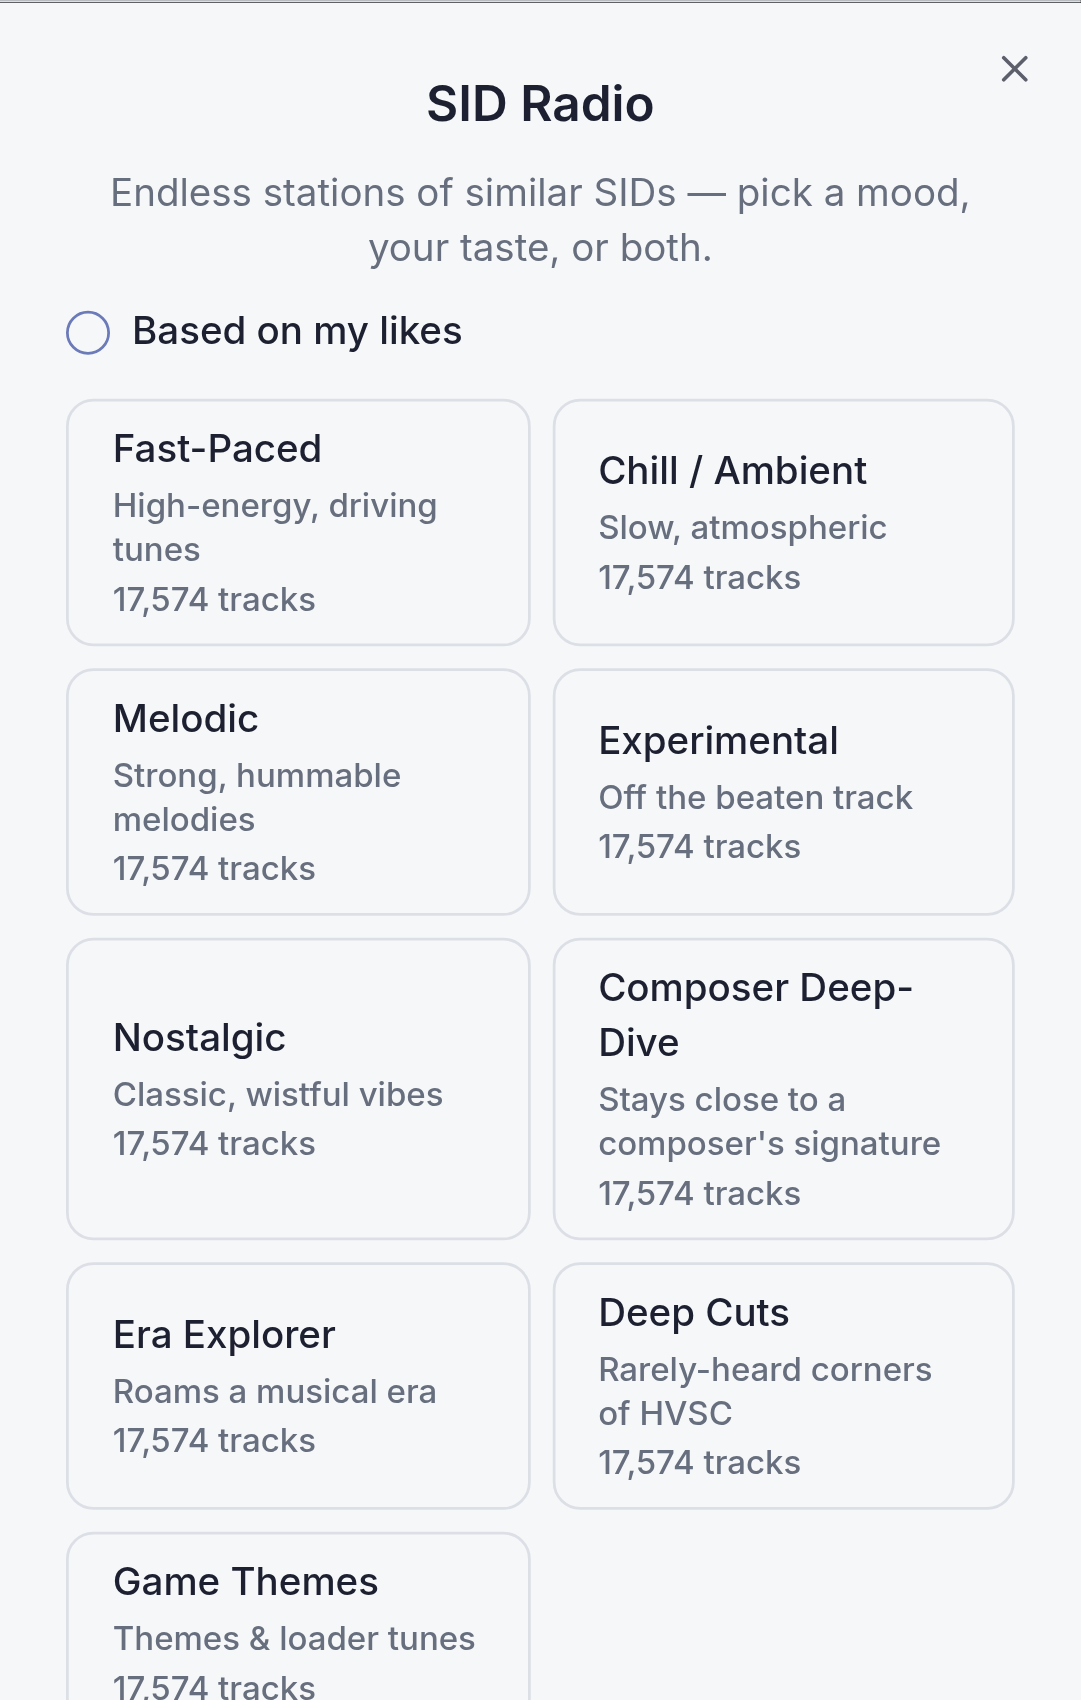
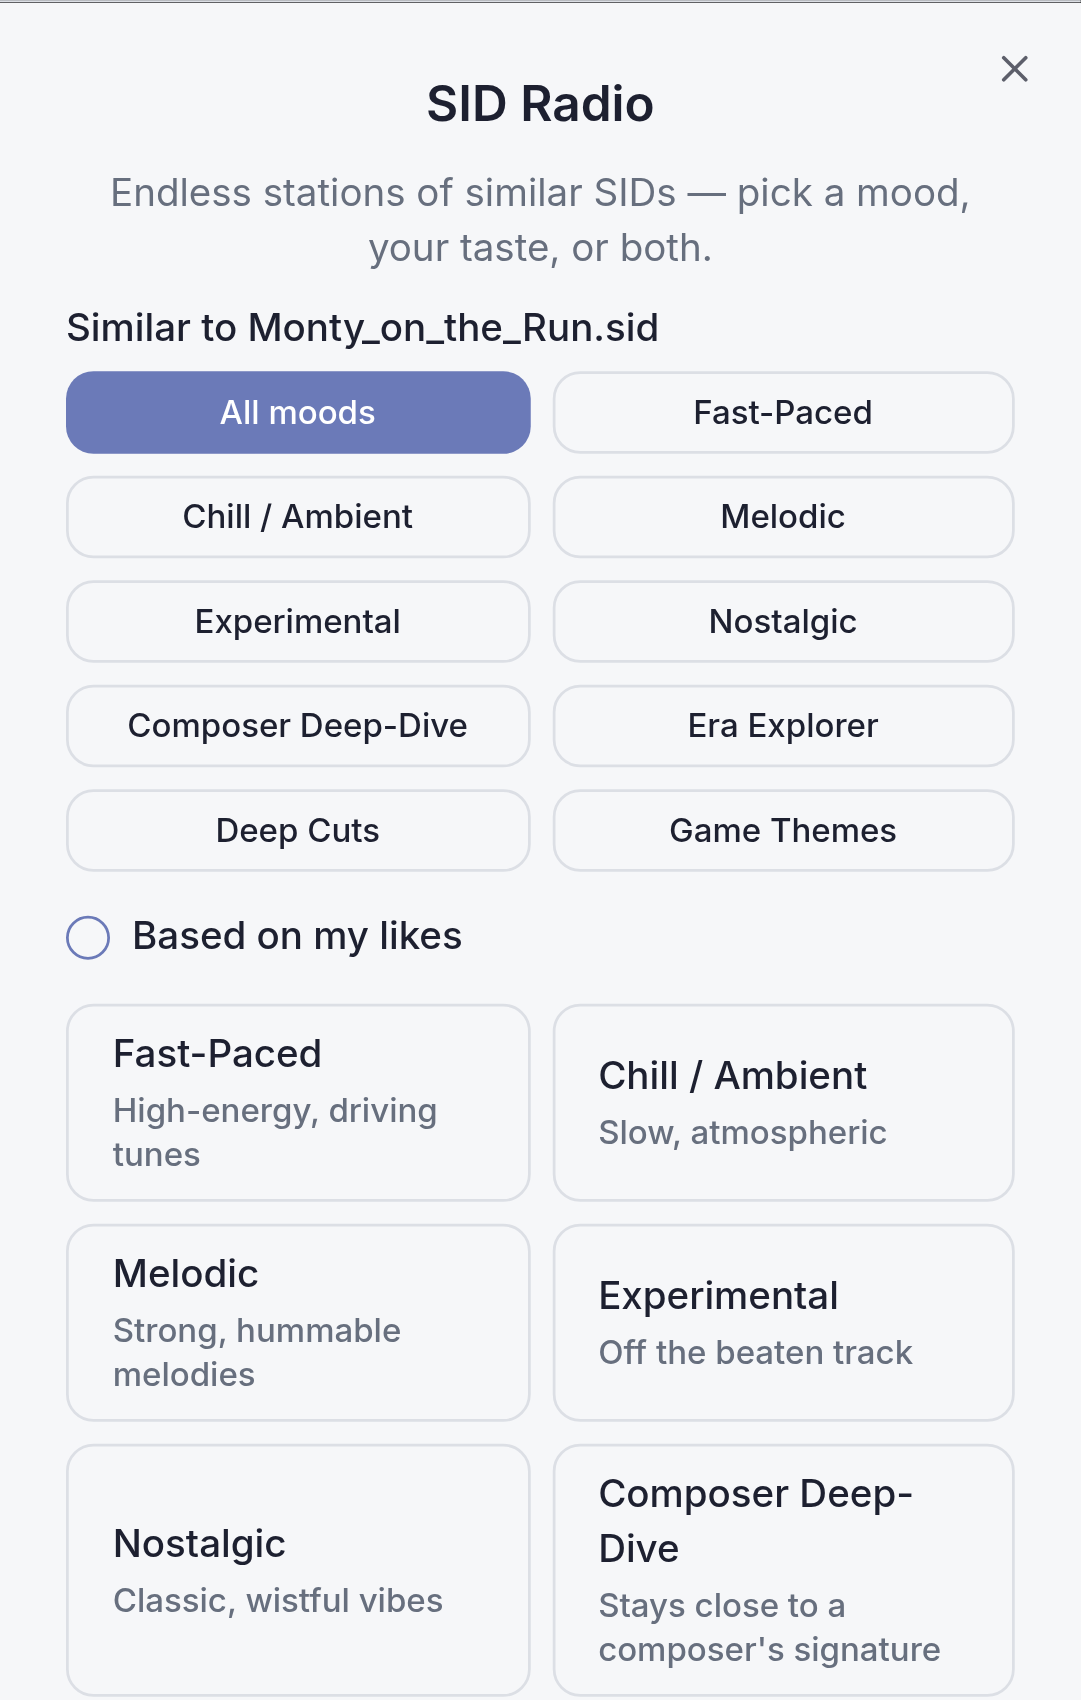
feat(sid-radio): drop the per-mood track count, and gate it at build time
Every mood tile printed how many tracks its station could draw on. The figures
sat within a few per cent of each other — 17,574 apiece in the shipped corpus —
so the number told a listener nothing about which mood to pick, and cost a third
line on all nine tiles. It is gone. The disabled "None in this release" state
stays, because a greyed tile with no explanation is worse than one with a reason.

Removing the figure removes the only place a release that had quietly lost most
of a mood would have been visible, so the check moves to where it can stop a
build instead of reaching a listener. `scripts/fetch-sidcorr.mjs` now counts the
styles in the bundle it has just verified and fails when any holds fewer than
10,000 tracks. That script runs in `prebuild`, which is the one point where the
corpus is guaranteed present, so the gate cannot be skipped.

The build script cannot import the app's TypeScript parser, so it carries its own
reader of the same header — and a duplicate is only safe while something proves
the two agree. `stylePopulationGate.test.ts` builds a fixture with known
populations and asserts the build reader and `stylePopulationsFromBundle` return
the same map, and that the map holds the numbers the fixture was built with, so a
reader that returned zeroes could not pass by agreeing with itself. Writing that
test earned its keep immediately: the first version of the reader had the wrong
offsets (styleCount is at 20, not 24; the style table at 32, not 48).
[…]

diff --git a/tests/unit/sidRadio/stylePopulationGate.test.ts b/tests/unit/sidRadio/stylePopulationGate.test.ts
@@ -1,0 +1,72 @@
+/*
+ * C64 Commander - Configure and control your Commodore 64 Ultimate over your local network
+ * Copyright (C) 2026 Christian Gleissner
+ *
+ * Licensed under the GNU General Public License v3.0 or later.
+ * See <https://www.gnu.org/licenses/> for details.
+ */
+
+import { describe, expect, it } from "vitest";
+
+import { MIN_STYLE_POPULATION, assertStylePopulations, readStylePopulations } from "../../../scripts/fetch-sidcorr.mjs";
+import { parseSidcorrTiny } from "@/lib/sidRadio/sidcorrTiny";
+import { stylePopulationsFromBundle } from "@/lib/sidRadio/sidRadioWorkerCore";
+import { buildTinyFixture } from "../../fixtures/sidcorr/buildTinyFixture";
+
+/**
+ * The launcher no longer prints a per-mood track count, so a release that quietly
+ * lost most of a mood would not be visible on screen any more. The build counts
+ * them instead, and these tests hold that counter to the app's own parser.
+ */
+describe("SID Radio style population gate", () => {
+  const fixture = () =>
+    Buffer.from(
+      buildTinyFixture({
+        files: [
+          { md5_48: "aaaaaaaaaaaa", tracks: [{ styleMask: 0b011 }, { styleMask: 0b001 }] },
+          { md5_48: "bbbbbbbbbbbb", tracks: [{ styleMask: 0b010, neighbors: [0] }] },
+          { md5_48: "cccccccccccc", tracks: [{ styleMask: 0b000, neighbors: [1, 0] }] },
+        ],
+      }),
+    );
+
+  it("counts each style exactly as the app's own parser does", () => {
+    // The build script cannot import the app's TypeScript parser, so it carries
+    // its own reader of the same header. That is a duplicate, and a duplicate is
+    // only safe while something proves the two agree.
+    const buffer = fixture();
+    const fromBuildScript = readStylePopulations(buffer);
+    const fromApp = stylePopulationsFromBundle(
+      parseSidcorrTiny(buffer.buffer.slice(buffer.byteOffset, buffer.byteOffset + buffer.byteLength)),
+    );
+
+    expect(fromBuildScript).toEqual(fromApp);
+    // And the numbers are the ones the fixture was built with, so a reader that
+    // returned zeroes for everything could not pass by agreeing with itself.
+    expect(fromBuildScript.fast_paced).toBe(2);
+    expect(fromBuildScript.slow_ambient).toBe(2);
+  });
+
+  it("reports every style that falls under the floor", () => {
+    const offenders = assertStylePopulations({ fast_paced: 12_000, slow_ambient: 9_999, theme_hunter: 0 }, 10_000);
+
+    expect(offenders).toEqual([
+      { key: "slow_ambient", count: 9_999 },
+      { key: "theme_hunter", count: 0 },
+    ]);
+  });
+
+  it("passes a release where every style clears the floor", () => {
+    expect(assertStylePopulations({ fast_paced: 10_000, slow_ambient: 17_574 }, 10_000)).toEqual([]);
+  });
+
+  it("holds the floor at ten thousand", () => {
+    // Stated as a test so lowering the bar is a visible decision rather than a
+    // quiet edit to a constant.
+    expect(MIN_STYLE_POPULATION).toBe(10_000);
+  });
+
+  it("refuses a buffer that is not a bundle", () => {
+    expect(() => readStylePopulations(Buffer.from("not a bundle at all"))).toThrow(/sidcorr-tiny-1/);
+  });
+});

diff --git a/tests/unit/scripts/sidcorrPackaging.test.ts b/tests/unit/scripts/sidcorrPackaging.test.ts
@@ -43,6 +43,10 @@ describe("fetch-sidcorr sha256 pin (§8.4)", () => {
   it("refuses to write a drifted download and reports a fatal status", async () => {
     let wrote = false;
     const result = await fetchSidcorr({
+      // The stub asset here is not a real bundle; the population gate is exercised
+      // in `stylePopulationGate.test.ts`, so it is stubbed out to keep this suite on
+      // the sha and caching behaviour it is about.
+      readPopulationsImpl: () => ({ fast_paced: 20000, slow_ambient: 20000 }),
       readFileImpl: async () => {
         throw enoent; // asset absent → exercise the download+verify path
       },
@@ -66,6 +70,10 @@ describe("fetch-sidcorr sha256 pin (§8.4)", () => {
     const pinned = Buffer.from("pinned bundle bytes");
     let wrote: Buffer | null = null;
     const result = await fetchSidcorr({
+      // The stub asset here is not a real bundle; the population gate is exercised
+      // in `stylePopulationGate.test.ts`, so it is stubbed out to keep this suite on
+      // the sha and caching behaviour it is about.
+      readPopulationsImpl: () => ({ fast_paced: 20000, slow_ambient: 20000 }),
       readFileImpl: async () => Buffer.from("bytes from an older pin"),
       fetchImpl: async () => makeResponse(pinned),
       writeFileImpl: async (_path: string, data: Buffer) => {
@@ -84,6 +92,10 @@ describe("fetch-sidcorr sha256 pin (§8.4)", () => {
     // integrity check moves to the downloaded payload, it does not disappear.
     let wrote = false;
     const result = await fetchSidcorr({
+      // The stub asset here is not a real bundle; the population gate is exercised
+      // in `stylePopulationGate.test.ts`, so it is stubbed out to keep this suite on
+      // the sha and caching behaviour it is about.
+      readPopulationsImpl: () => ({ fast_paced: 20000, slow_ambient: 20000 }),
       readFileImpl: async () => Buffer.from("bytes from an older pin"),
       fetchImpl: async () => makeResponse(Buffer.from("not the real sidcorr bundle")),
       writeFileImpl: async () => {
@@ -103,6 +115,10 @@ describe("fetch-sidcorr sha256 pin (§8.4)", () => {
     expect(verifyBundleSha256(real)).toBe(true);
     let written: Buffer | null = null;
     const result = await fetchSidcorr({
+      // The stub asset here is not a real bundle; the population gate is exercised
+      // in `stylePopulationGate.test.ts`, so it is stubbed out to keep this suite on
+      // the sha and caching behaviour it is about.
+      readPopulationsImpl: () => ({ fast_paced: 20000, slow_ambient: 20000 }),
       readFileImpl: async () => {
         throw enoent;
       },

diff --git a/src/pages/playFiles/components/SidRadioLauncherSheet.tsx b/src/pages/playFiles/components/SidRadioLauncherSheet.tsx
@@ -59,9 +59,8 @@ const songMoodOptions: ReadonlyArray<{ bit: number | null; key: string | null; l
  * the 9 style tiles, a "based on my likes" composition toggle (Q4/D10), a Taste
  * entry that unlocks at the like threshold (D1), and Surprise.
  *
- * Each tile carries the size of the station behind it, and a style the export
- * left empty is offered as a disabled tile rather than a station that starts and
- * immediately reports it has nothing to play (§5.4).
+ * A style the export left empty is offered as a disabled tile rather than a
+ * station that starts and immediately reports it has nothing to play (§5.4).
  */
 export const SidRadioLauncherSheet = ({
   open,
@@ -148,11 +147,20 @@ export const SidRadioLauncherSheet = ({
                 >
                   <span className="text-sm font-medium">{tile.label}</span>
                   <span className="text-xs text-muted-foreground">{tile.blurb}</span>
-                  {population === undefined ? null : (
+                  {/* No track count.
+                      Every mood draws on tens of thousands of tunes and the numbers
+                      sat within a few per cent of each other, so the figure told a
+                      listener nothing about which mood to pick — it only added a
+                      third line to every tile. A release where a mood held too
+                      little to be worth offering is caught at build time instead;
+                      see `assertStylePopulations` in `scripts/fetch-sidcorr.mjs`.
+                      The empty state is still spelled out, because a greyed tile
+                      with no explanation is worse than one with a reason. */}
+                  {population !== undefined && !populated ? (
                     <span className="text-xs text-muted-foreground" data-testid={`sid-radio-style-${tile.bit}-size`}>
-                      {populated ? `${population.toLocaleString()} tracks` : "None in this release"}
+                      None in this release
                     </span>
-                  )}
+                  ) : null}
                 </Button>
               );
             })}

diff --git a/tests/unit/sidRadio/SidRadioLauncherSheet.test.tsx b/tests/unit/sidRadio/SidRadioLauncherSheet.test.tsx
@@ -162,10 +162,15 @@ describe("SidRadioLauncherSheet Song moods", () => {
 describe("SidRadioLauncherSheet station populations", () => {
   const populations = populationsWith({ fast_paced: 41648, composer_focus: 673, theme_hunter: 0 });
 
-  it("shows each station's size once the populations are known", () => {
+  it("does not print a track count on a station that has music", () => {
+    // Every mood draws on tens of thousands of tunes and the figures sat within a
+    // few per cent of each other, so the number said nothing about which mood to
+    // pick and cost a third line on every tile. A release that lost most of a mood
+    // is caught by the build instead — see `stylePopulationGate.test.ts`.
     setup(0, populations);
-    expect(screen.getByTestId("sid-radio-style-0-size")).toHaveTextContent("41,648 tracks");
-    expect(screen.getByTestId("sid-radio-style-5-size")).toHaveTextContent("673 tracks");
+    expect(screen.queryByTestId("sid-radio-style-0-size")).toBeNull();
+    expect(screen.queryByTestId("sid-radio-style-5-size")).toBeNull();
+    expect(screen.getByTestId("sid-radio-style-0")).not.toHaveTextContent(/tracks/);
   });
 
   it("disables a style the export left empty instead of offering a dead station", () => {

diff --git a/playwright/screenshots.spec.ts b/playwright/screenshots.spec.ts
@@ -2534,9 +2534,11 @@ test.describe("App screenshots", () => {
       await stationsLauncher.click();
       const sheet = page.getByTestId("sid-radio-launcher-sheet");
       await expect(sheet).toBeVisible();
-      // Each tile's size arrives from the worker once it has parsed the bundle;
-      // capturing before then would photograph a half-populated grid.
-      await expect(sheet.getByTestId("sid-radio-style-0-size")).toBeVisible();
+      // A tile is disabled until the worker has parsed the bundle and reported that
+      // the mood has music, so waiting for one to be enabled is waiting for the
+      // grid to be populated. This used to wait for a per-tile track count, which
+      // the tiles no longer print.
+      await expect(sheet.getByTestId("sid-radio-style-0")).toBeEnabled();
       await captureScreenshot(page, testInfo, "play/sid-radio/02-stations.png", { locator: sheet });
       await page.keyboard.press("Escape");
       await expect(page.getByTestId("sid-radio-launcher-sheet")).toHaveCount(0);

diff --git a/docs/manual/c64commander/c64commander-manual.md b/docs/manual/c64commander/c64commander-manual.md
@@ -389,7 +389,7 @@ It needs no internet connection. The app already knows which tunes resemble one 
 
 You will be offered three kinds of station:
 
-- **A mood.** Nine of them, such as Fast-Paced, Chill / Ambient and Melodic. Each tile tells you how many tunes it has to draw on. A mood with nothing to offer is greyed out, so you cannot start a station that has no music in it.
+- **A mood.** Nine of them, such as Fast-Paced, Chill / Ambient and Melodic. Every one of them draws on tens of thousands of tunes, so pick whichever suits you and do not worry about running short.
 - **Tunes you like.** This appears once you have marked a few favourites, and builds a station out of them.
 - **Surprise me.** Anything at all.
 

diff --git a/docs/manual/c64u-remote/c64u-remote-manual.md b/docs/manual/c64u-remote/c64u-remote-manual.md
@@ -387,7 +387,7 @@ It needs no internet connection. The app already knows which tunes resemble one 
 
 You will be offered three kinds of station:
 
-- **A mood.** Nine of them, such as Fast-Paced, Chill / Ambient and Melodic. Each tile tells you how many tunes it has to draw on. A mood with nothing to offer is greyed out, so you cannot start a station that has no music in it.
+- **A mood.** Nine of them, such as Fast-Paced, Chill / Ambient and Melodic. Every one of them draws on tens of thousands of tunes, so pick whichever suits you and do not worry about running short.
 - **Tunes you like.** This appears once you have marked a few favourites, and builds a station out of them.
 - **Surprise me.** Anything at all.
 
